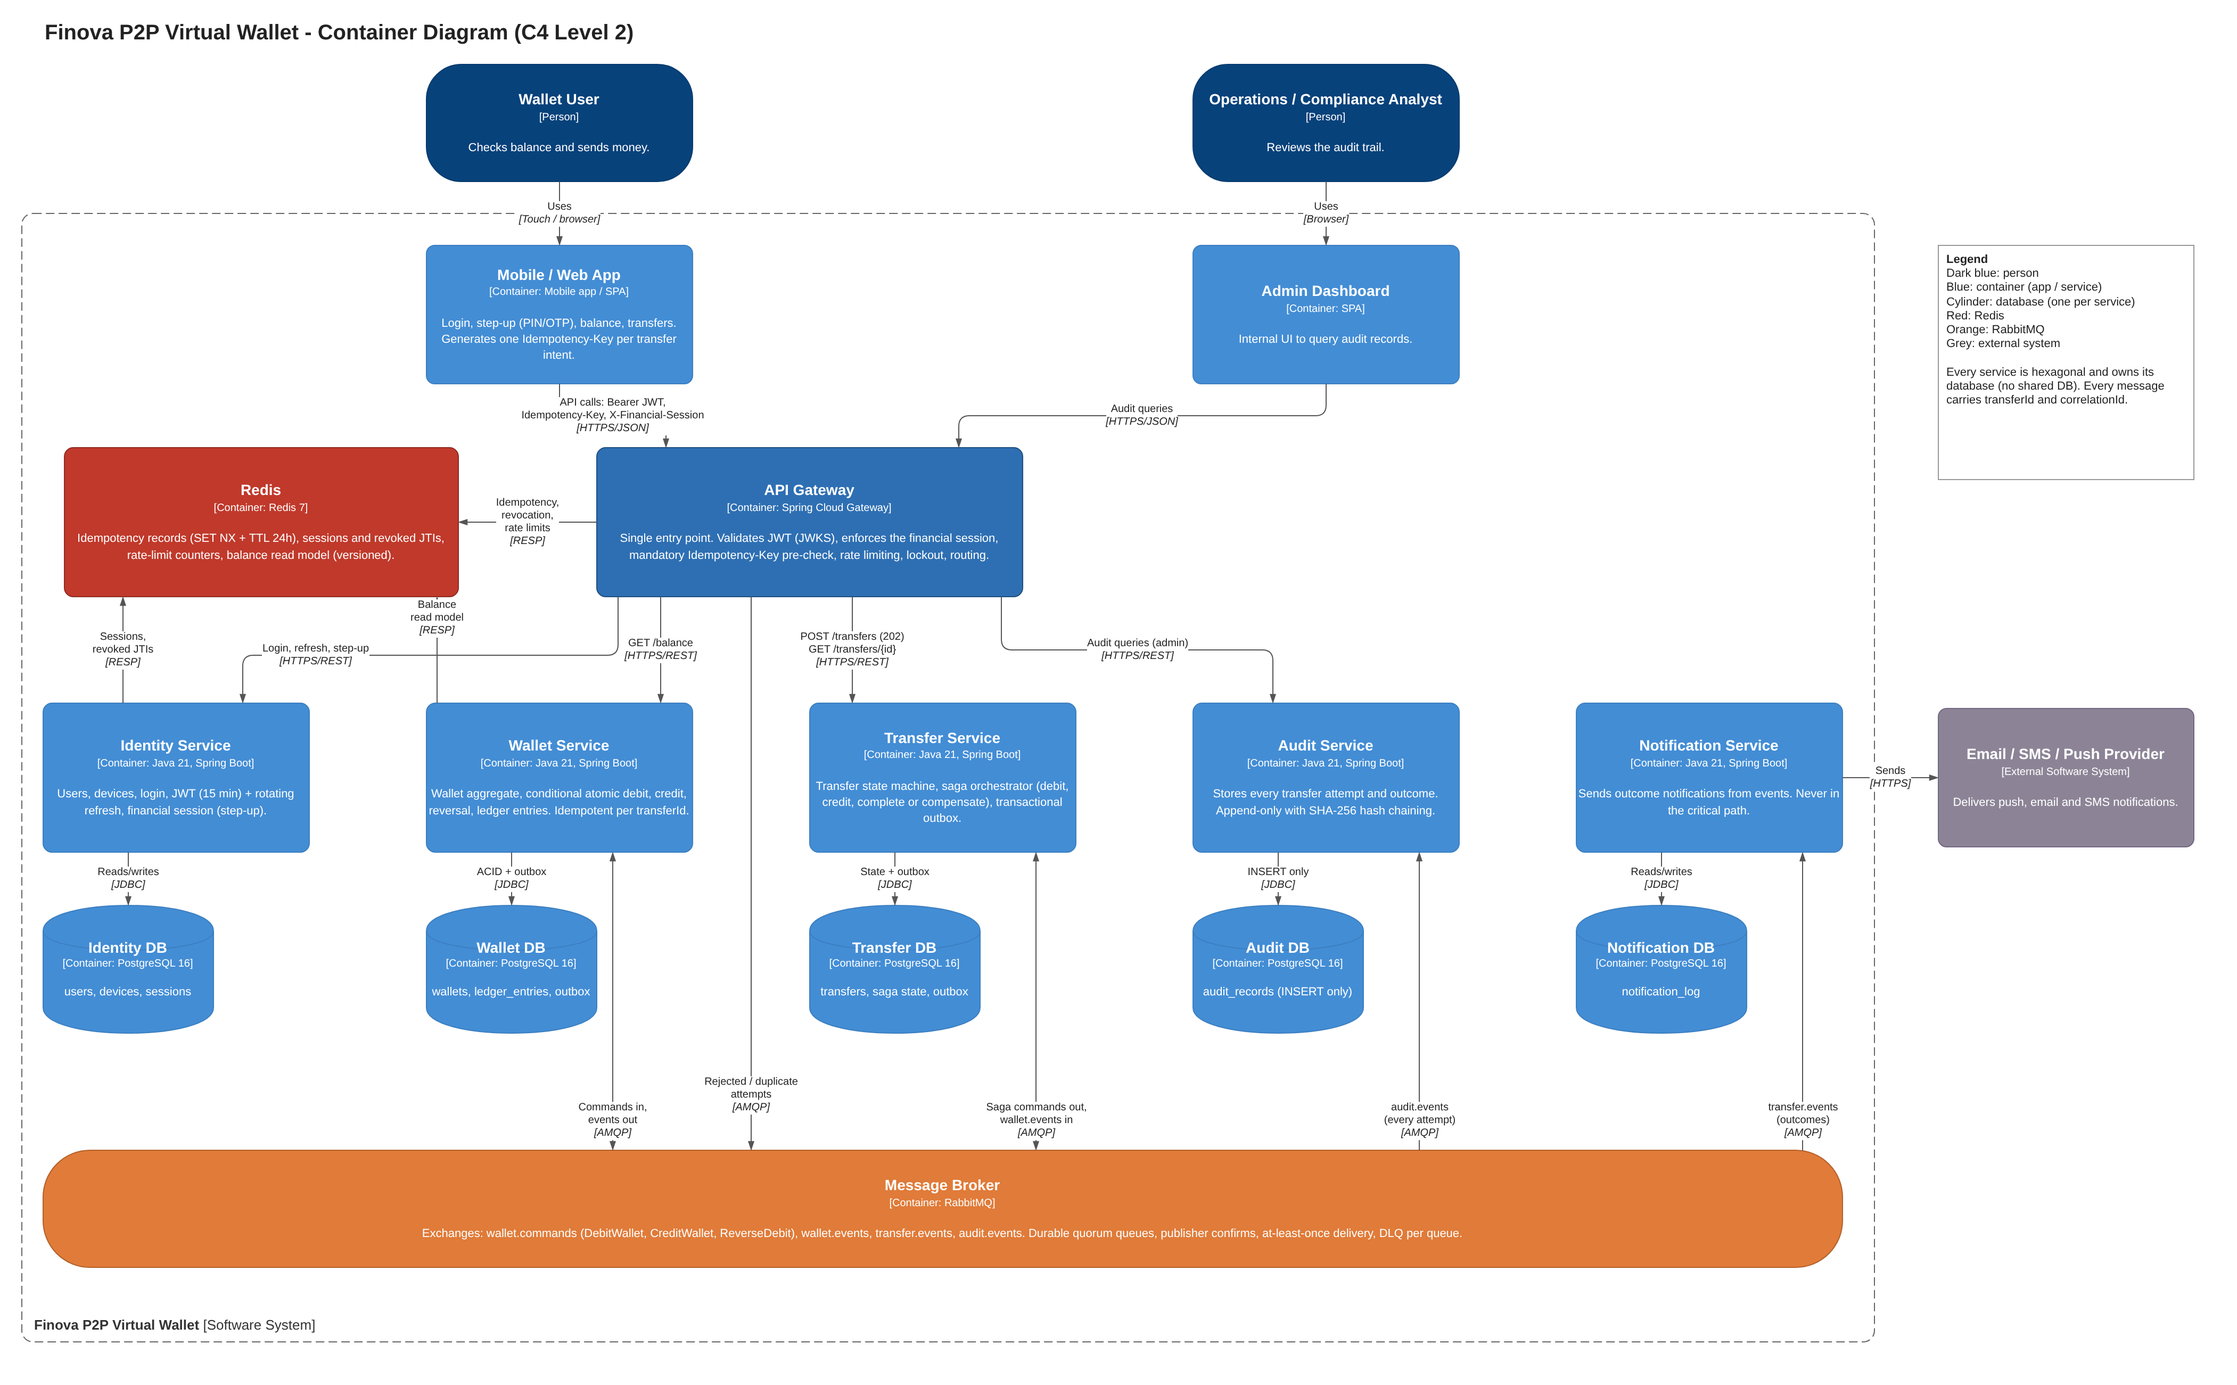
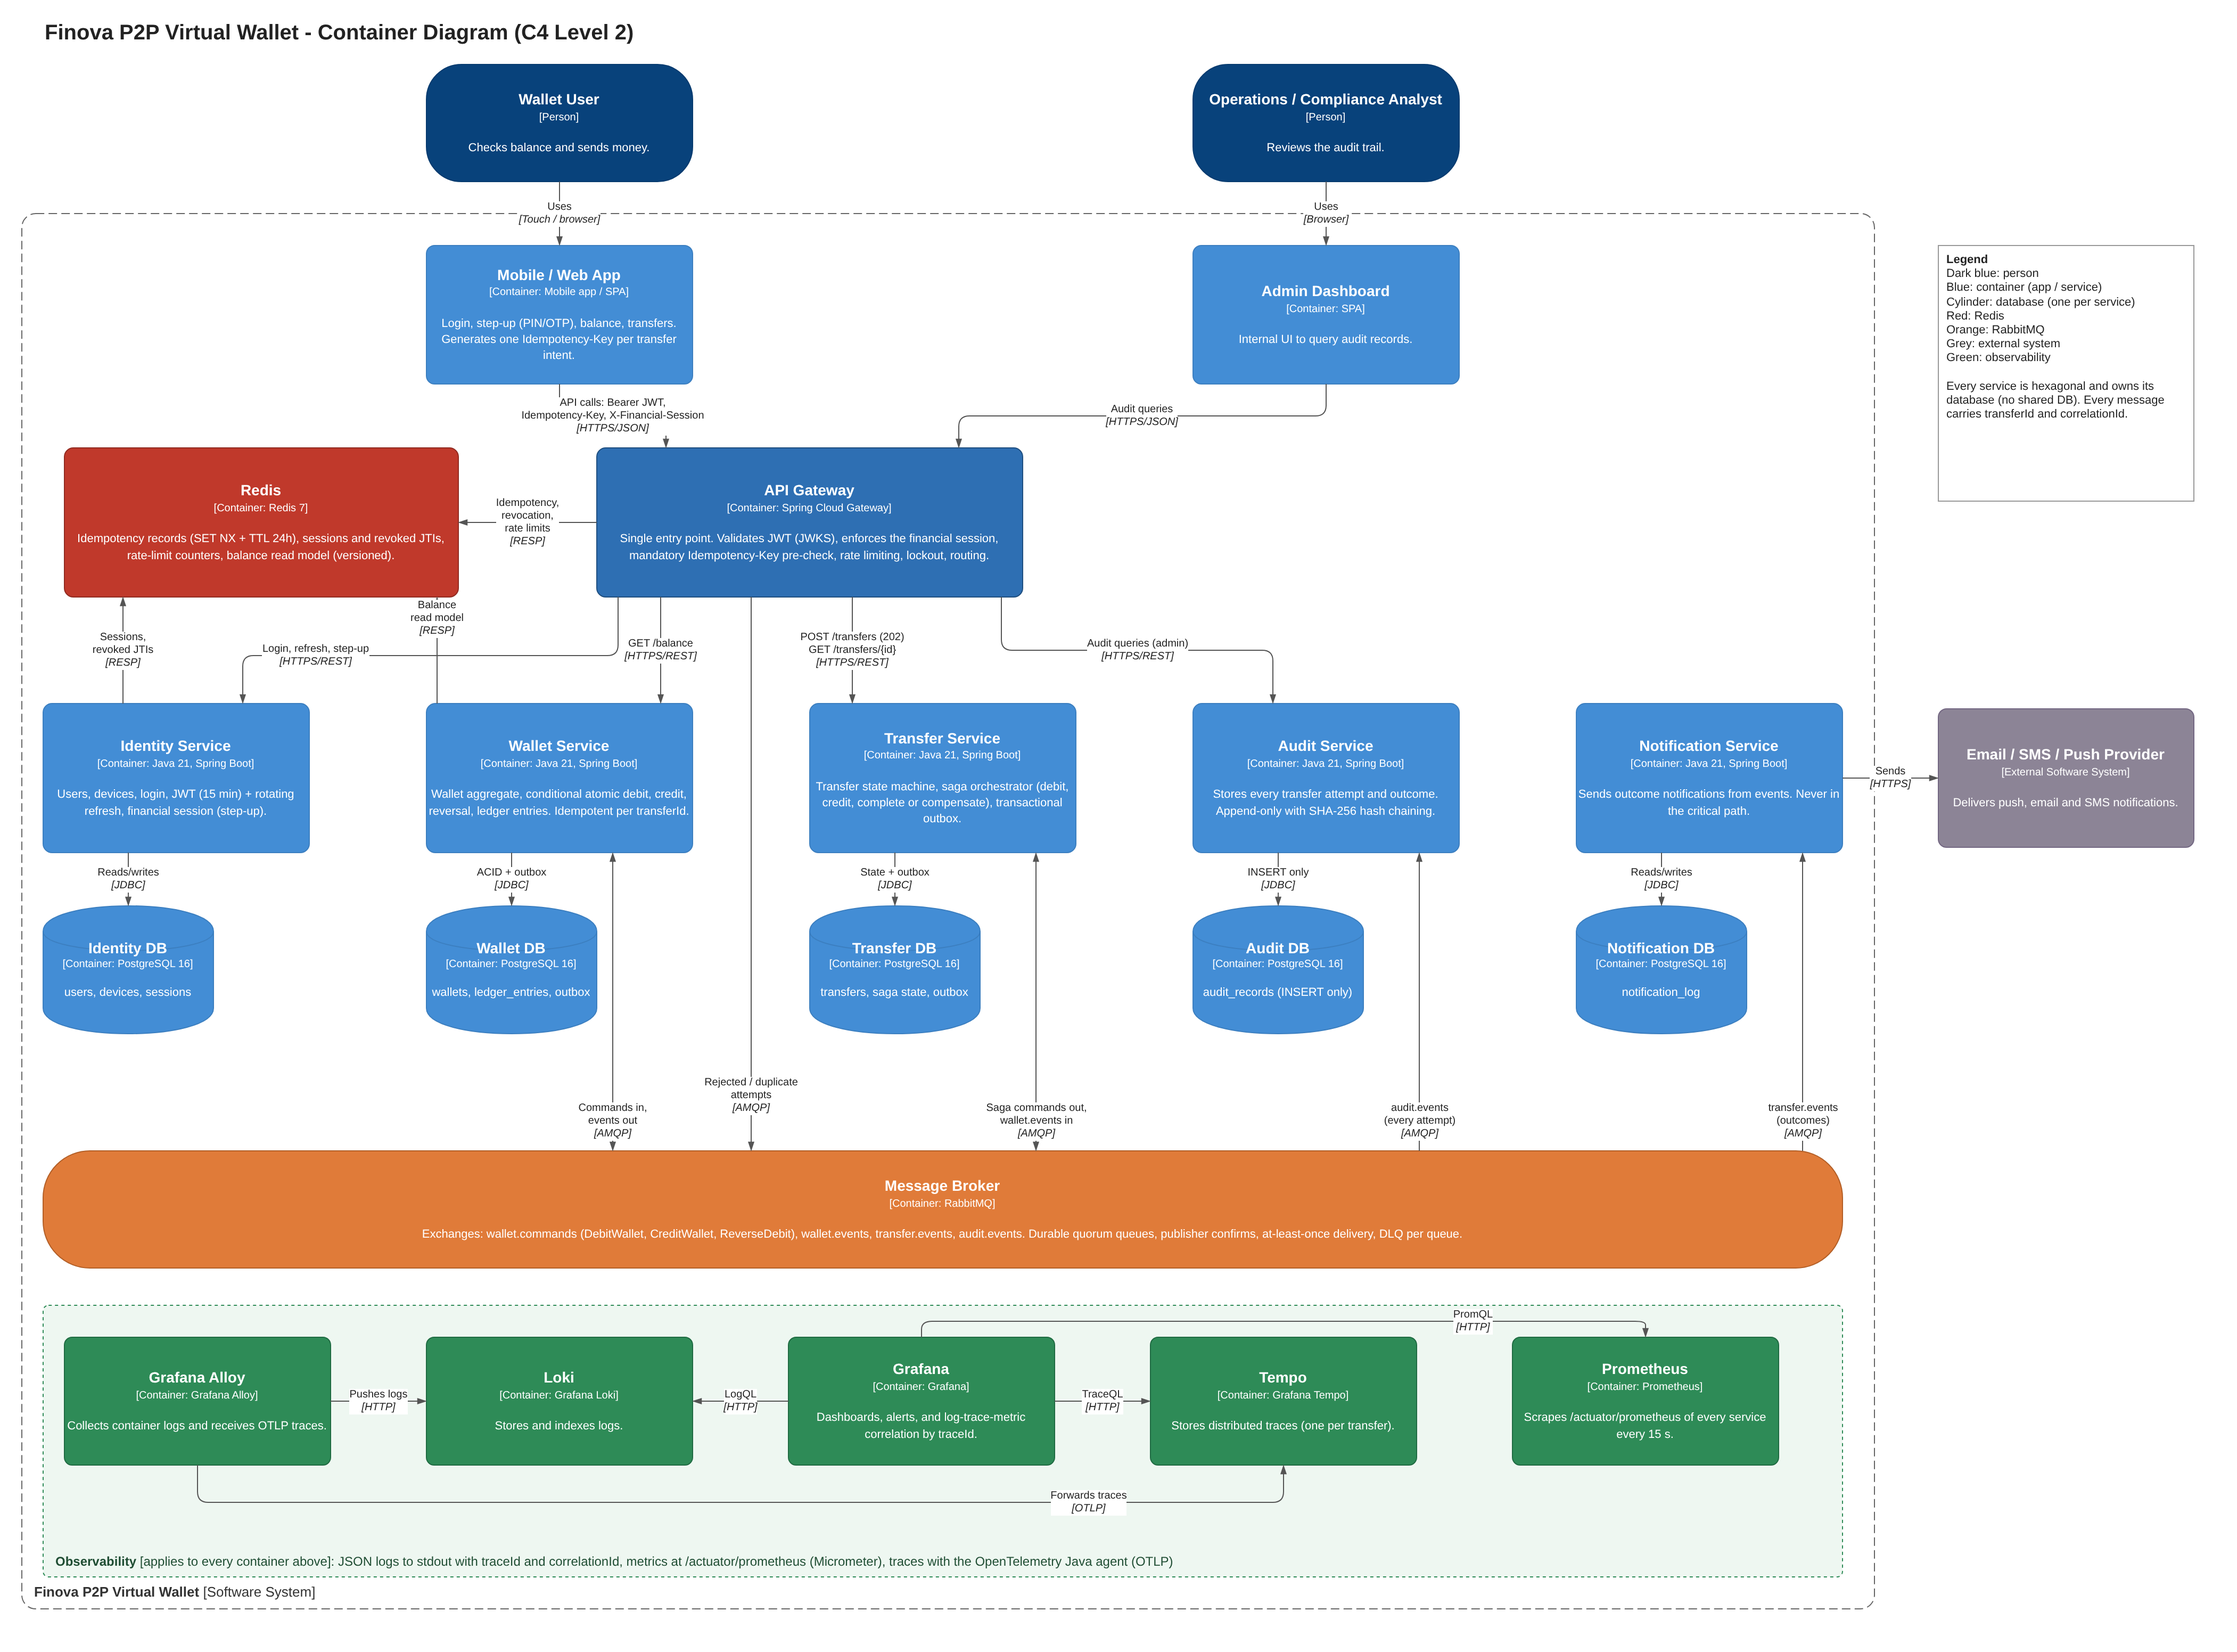
docs: add observability stack (Prometheus, Loki, Tempo, Grafana)
- ADR 007: Grafana stack + OpenTelemetry for metrics, logs and traces
- spec.md §7: observability contract (metrics, log fields, trace
  propagation over HTTP/AMQP, dashboards, alerts, scenarios)
- C4 container diagram: observability group with Alloy, Loki, Grafana,
  Tempo and Prometheus
- README: observability row and ADR range

Claude-Session: https://claude.ai/code/session_01B6a7c4NU3CWdCzKuDs5iYJ

diff --git a/docs/spec.md b/docs/spec.md
@@ -13,6 +13,7 @@ Wave 2 code is reviewed against this file. Any change to a contract must update 
 4. [REST APIs](#4-rest-apis)
 5. [Asynchronous events and integration contracts](#5-asynchronous-events-and-integration-contracts)
 6. [Requirements and scenarios (WHEN / THEN)](#6-requirements-and-scenarios-when--then)
+7. [Observability contract](#7-observability-contract)
 
 ---
 
@@ -28,6 +29,7 @@ Finova replaces the chained synchronous call `User-Service -> Wallet-Service -> 
 | **Wallet Service** | Wallet | Wallet aggregate, non-negative balance invariant, conditional atomic debit, credit, reversal, ledger entries, balance read model in Redis (CQRS). | `wallet_db` + Redis | `wallet.events`, `audit.events` | `wallet.commands` |
 | **Audit Service** | Audit | Append-only, hash-chained record of every attempt and outcome. Read API for compliance. | `audit_db` | — | `audit.events` |
 | **Notification Service** | Notification | Push, email and SMS from outcome events. Best effort, never on the critical path. | `notification_db` | — | `transfer.events` |
+| **Observability stack** | Cross-cutting | Prometheus (metrics), Loki (logs), Tempo (traces), Grafana (UI), Grafana Alloy (collector). See §7 and ADR 007. | Own volumes | — | Metrics, logs and OTLP traces from every container |
 
 End-to-end transfer flow:
 
@@ -413,3 +415,51 @@ components:
 - **WHEN** someone runs `UPDATE` or `DELETE` on `audit_records` **THEN** the database rejects it (privileges revoked and trigger).
 - **WHEN** a record is altered outside the application **THEN** `GET /audit/verify` returns `valid: false` with the first broken `seq`.
 - **WHEN** the Audit Service is down **THEN** transfers keep working, audit events wait in `audit-service.records`, and they are stored once the service recovers.
+
+## 7. Observability contract
+
+Every service and the Gateway must comply with this contract (ADR 007).
+
+### 7.1 Metrics (Prometheus)
+
+- Endpoint: `GET /actuator/prometheus` (Micrometer), scraped every 15 s. RabbitMQ (`rabbitmq_prometheus` plugin) and Redis (`redis_exporter`) are scraped too.
+
+| Metric | Type | Labels | Producer |
+|---|---|---|---|
+| `finova_transfers_total` | counter | `status` (COMPLETED, REJECTED, REVERSED) | Transfer |
+| `finova_saga_duration_seconds` | histogram | `outcome` | Transfer |
+| `finova_compensations_total` | counter | `reason` | Transfer |
+| `finova_outbox_pending` | gauge | `service` | Transfer, Wallet |
+| `finova_idempotency_rejections_total` | counter | `result` (IN_PROGRESS, REPLAYED, KEY_REUSED) | Gateway |
+| `finova_balance_cache_requests_total` | counter | `result` (hit, miss) | Wallet |
+| `http_server_requests_seconds` | histogram | `uri`, `status` | all (Micrometer default) |
+
+### 7.2 Logs (Loki)
+
+- JSON to stdout, one line per event, collected by Grafana Alloy.
+- Mandatory fields: `timestamp`, `level`, `service`, `traceId`, `spanId`, `correlationId`, `transferId` (when present), `message`.
+- Never logged: passwords, PINs, OTPs, tokens, full request bodies.
+
+### 7.3 Traces (Tempo)
+
+- OpenTelemetry Java agent in every service; OTLP to Alloy, forwarded to Tempo.
+- W3C `traceparent` propagated in HTTP headers and in AMQP message headers, so one transfer = one trace (Gateway → Transfer → RabbitMQ → Wallet → Transfer → Notification/Audit).
+- Span attributes: `transfer.id`, `idempotency.key`, `saga.step`.
+
+### 7.4 Dashboards and alerts (Grafana)
+
+| Panel / alert | Query basis | Alert threshold |
+|---|---|---|
+| Transfers by final state | `finova_transfers_total` | — |
+| Saga duration p95 | `finova_saga_duration_seconds` | > 2 s for 5 min |
+| Compensations per minute | `finova_compensations_total` | > 5 / min |
+| Outbox lag | `finova_outbox_pending` | > 100 for 2 min |
+| DLQ depth | RabbitMQ queue metrics `*.dlq` | > 0 |
+| Balance read p99 and cache hit ratio | `http_server_requests_seconds`, `finova_balance_cache_requests_total` | p99 > 50 ms |
+| 5xx rate | `http_server_requests_seconds_count{status=~"5.."}` | > 1 % |
+
+### 7.5 Scenarios (WHEN / THEN)
+
+- **WHEN** a transfer ends `REVERSED` **THEN** searching its `transferId` in Grafana shows its logs from every service and one trace with the debit, the failed credit and the reversal.
+- **WHEN** a message lands in any DLQ **THEN** a Grafana alert fires within 1 minute.
+- **WHEN** the outbox relay stops **THEN** `finova_outbox_pending` grows and the outbox-lag alert fires.

diff --git a/docs/adrs/007-observability-with-grafana-stack.md b/docs/adrs/007-observability-with-grafana-stack.md
@@ -1,0 +1,40 @@
+# ADR 007: Observability with Prometheus, Loki, Tempo and Grafana (OpenTelemetry)
+
+- **Status:** Accepted
+- **Date:** 2026-10-16
+- **Features:** supports 4 (diagnosing stuck or compensated sagas) and 5 (tracing every attempt); required by the Wave 2 monitoring stack
+
+## Context and Problem
+
+A transfer crosses the Gateway, Transfer, RabbitMQ and Wallet asynchronously. When a transfer ends `REVERSED` or stays `PENDING`, the team must see in one place what happened, in which service and how long each step took, without opening the logs of 5 containers by hand. Wave 2 requires a monitoring stack (Prometheus, Loki, Grafana) for container metrics and logs, and recommends distributed tracing. Everything must be open source, free and run in Docker Compose.
+
+## Considered Alternatives
+
+1. **Logs only (`docker logs`) per container:** zero setup, but no metrics, no search across services and no way to follow a transfer end to end.
+2. **ELK (Elasticsearch, Logstash, Kibana) + Jaeger:** mature, but Elasticsearch is memory-heavy for a laptop and adds a second UI for traces.
+3. **Grafana stack: Prometheus (metrics) + Loki (logs) + Tempo (traces) + Grafana (UI), with Grafana Alloy as collector and OpenTelemetry for instrumentation.**
+4. **Commercial SaaS (Datadog, New Relic):** best UX, but paid and outside the course's open-source requirement.
+
+## Decision
+
+- **Metrics:** every Spring Boot service and the Gateway expose `/actuator/prometheus` (Micrometer). Prometheus scrapes them every 15 s, plus the RabbitMQ and Redis exporters.
+- **Logs:** services write structured JSON logs to stdout with `traceId`, `spanId`, `correlationId` and `transferId`. Grafana Alloy collects the Docker container logs and pushes them to Loki.
+- **Traces:** the OpenTelemetry Java agent instruments HTTP, JDBC, Redis and RabbitMQ calls and sends OTLP to Alloy, which forwards them to Tempo. Trace context travels in HTTP and AMQP headers, so one transfer is one trace across services.
+- **Grafana** is the single UI with three data sources and links between them (log line → trace → metrics).
+- **Key dashboards and alerts:** transfers by final state, saga duration p95, compensations per minute, idempotency rejections (409/422), balance read latency p99 and cache hit ratio, outbox lag, DLQ depth, 5xx rate.
+
+## Trade-offs
+
+**Positives (what we gain)**
+- One click from an error log to the full trace of that transfer.
+- Saga and outbox problems become visible (outbox lag, DLQ depth, compensation rate).
+- 100 % open source and free; runs in Docker Compose; one UI.
+
+**Negatives (risks / what we lose)**
+- Five more containers: mitigated with small retention (Loki/Tempo 7 days) and resource limits in Compose.
+- Instrumentation overhead: the agent is automatic; sampling can be lowered if needed (100 % in the demo).
+- Sensitive data in logs: logs never include PINs, tokens or full account data; amounts and IDs only.
+
+## Final Justification
+
+Finova's failures happen between services and asynchronously, which is exactly what metrics alone or per-container logs cannot show. The Grafana stack with OpenTelemetry satisfies the Wave 2 requirement, adds the recommended distributed tracing at no cost, and lets the team prove in the demo that a failed credit was compensated, step by step, in a single trace.

diff --git a/README.md b/README.md
@@ -37,6 +37,7 @@ Finova performs chained synchronous HTTP calls (`User-Service -> Wallet-Service 
 | PostgreSQL 16 ×5 | Database per service | `identity_db`, `wallet_db`, `transfer_db`, `audit_db`, `notification_db` |
 | RabbitMQ | Message broker | `wallet.commands`, `wallet.events`, `transfer.events`, `audit.events` |
 | Redis 7 | Cache / store | Idempotency keys, sessions and revocation, rate limits, balance read model |
+| Prometheus, Loki, Tempo, Grafana, Grafana Alloy | Observability (ADR 007) | Metrics, logs and distributed traces of every container in one UI |
 
 ## Mandatory features and where they live
 
@@ -53,7 +54,7 @@ Finova performs chained synchronous HTTP calls (`User-Service -> Wallet-Service 
 ```
 /docs
   spec.md                       # REST + async contracts, WHEN/THEN scenarios (Wave 1)
-  /adrs                         # Architecture Decision Records (001-006)
+  /adrs                         # Architecture Decision Records (001-007)
   /assets                       # C4 diagrams (PNG) + draw.io source
 /services                       # (Wave 2) microservices source
   wallet-service/               # scaffolded (Bancolombia scaffold, hexagonal layout)
